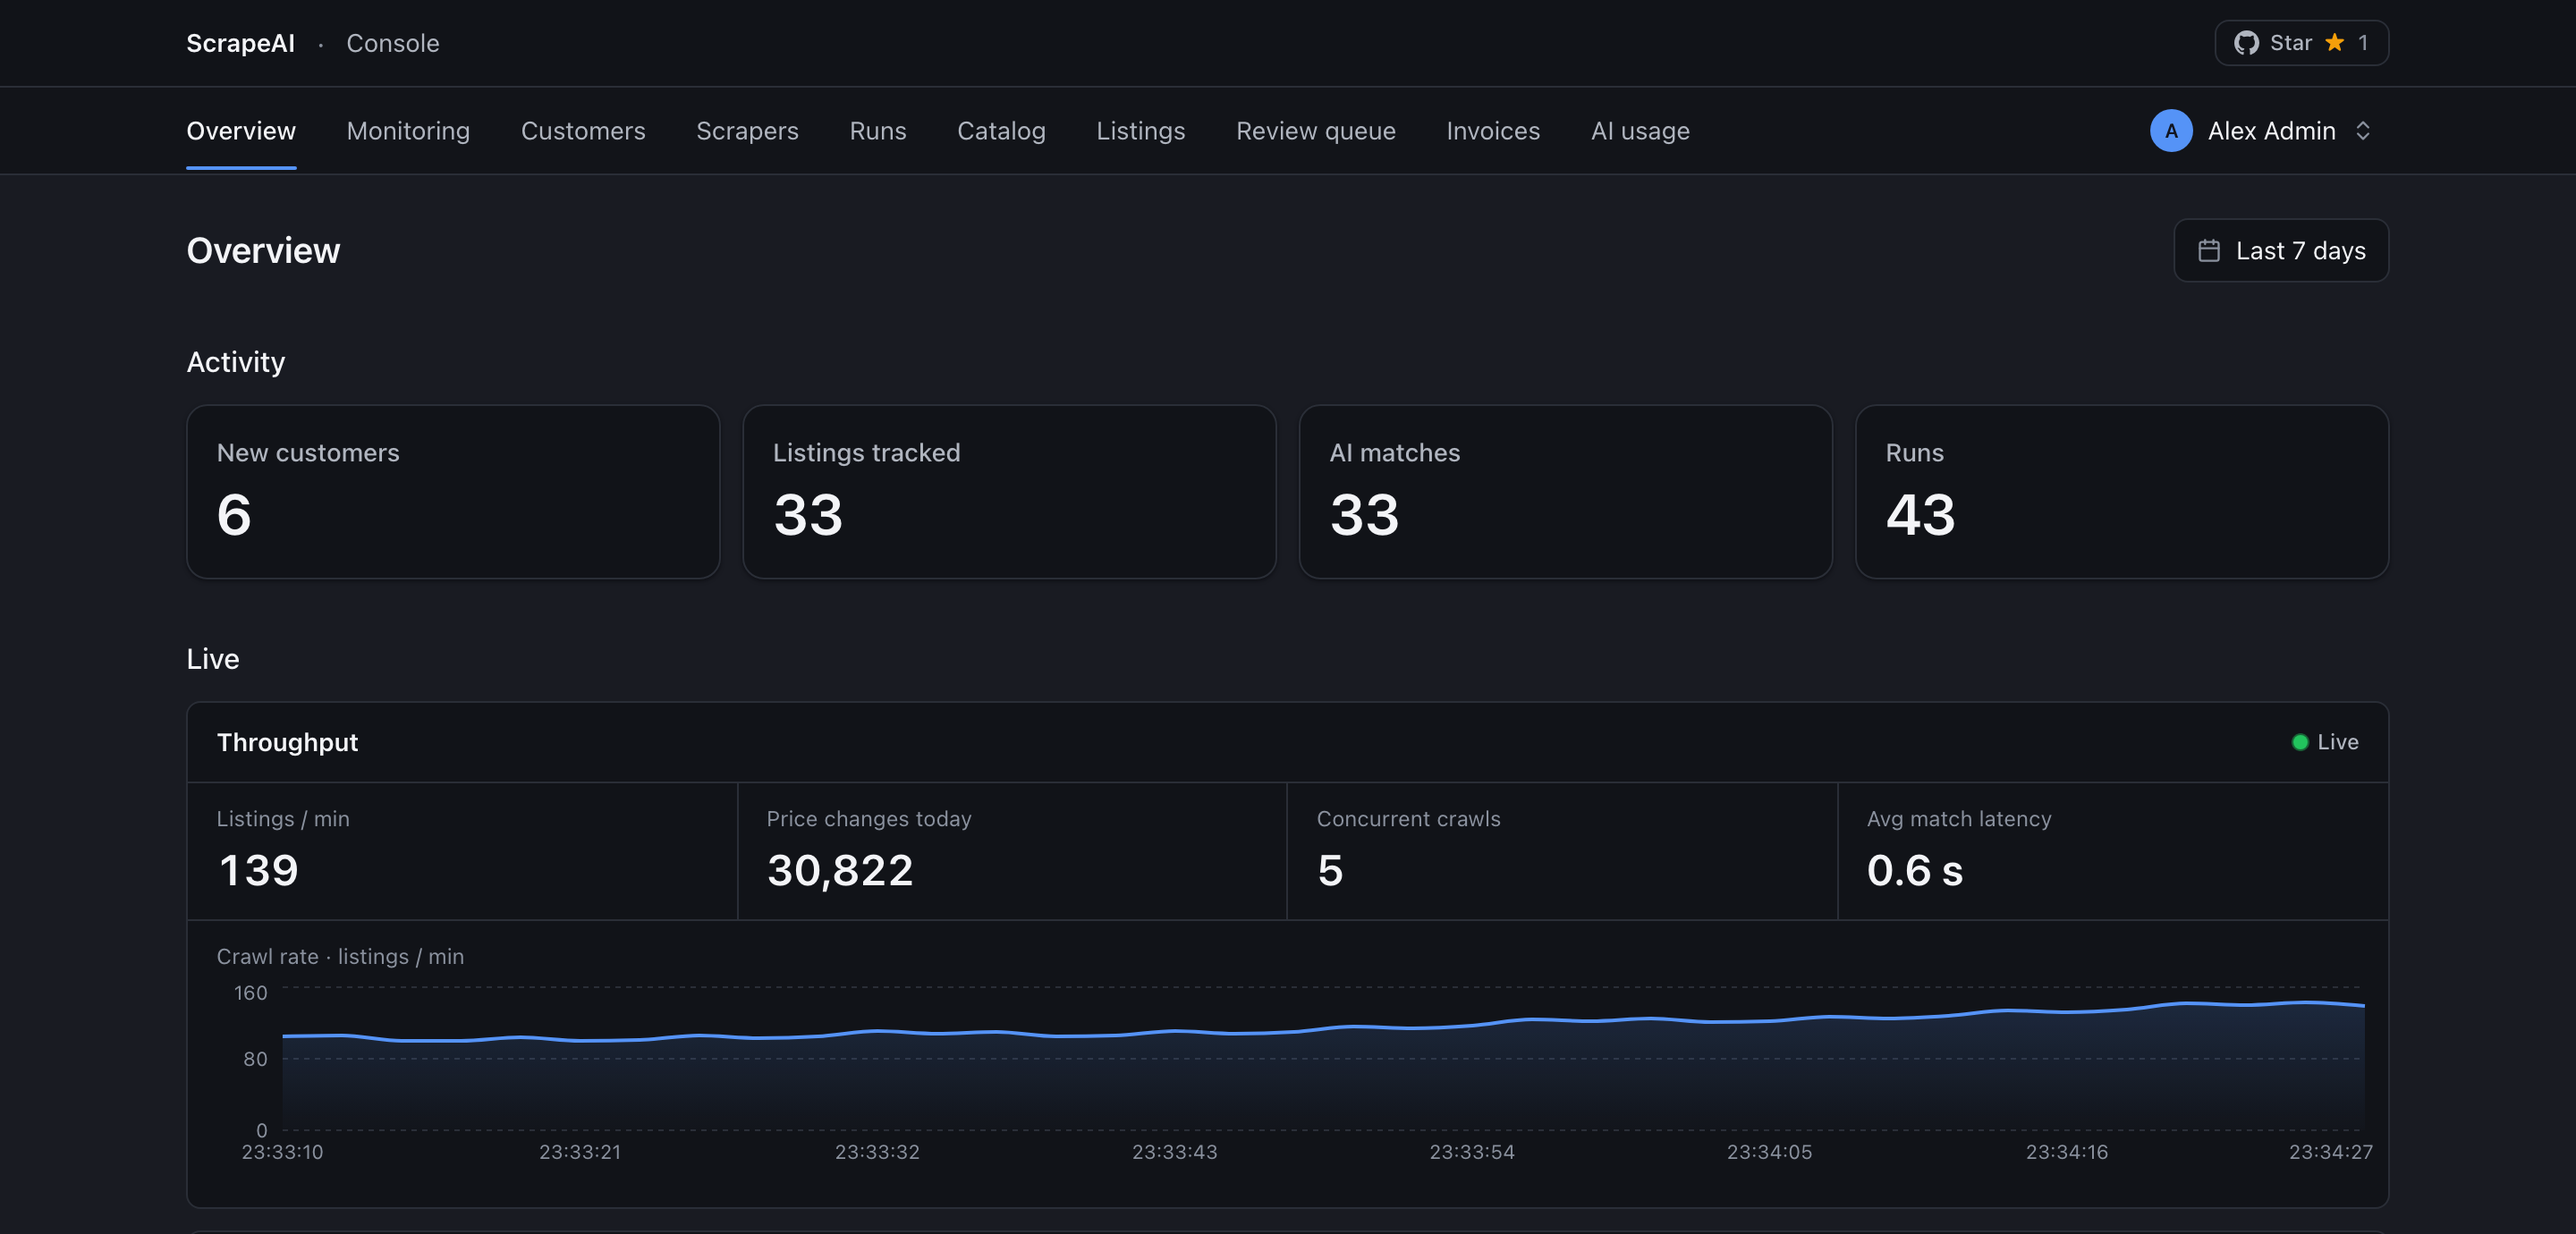
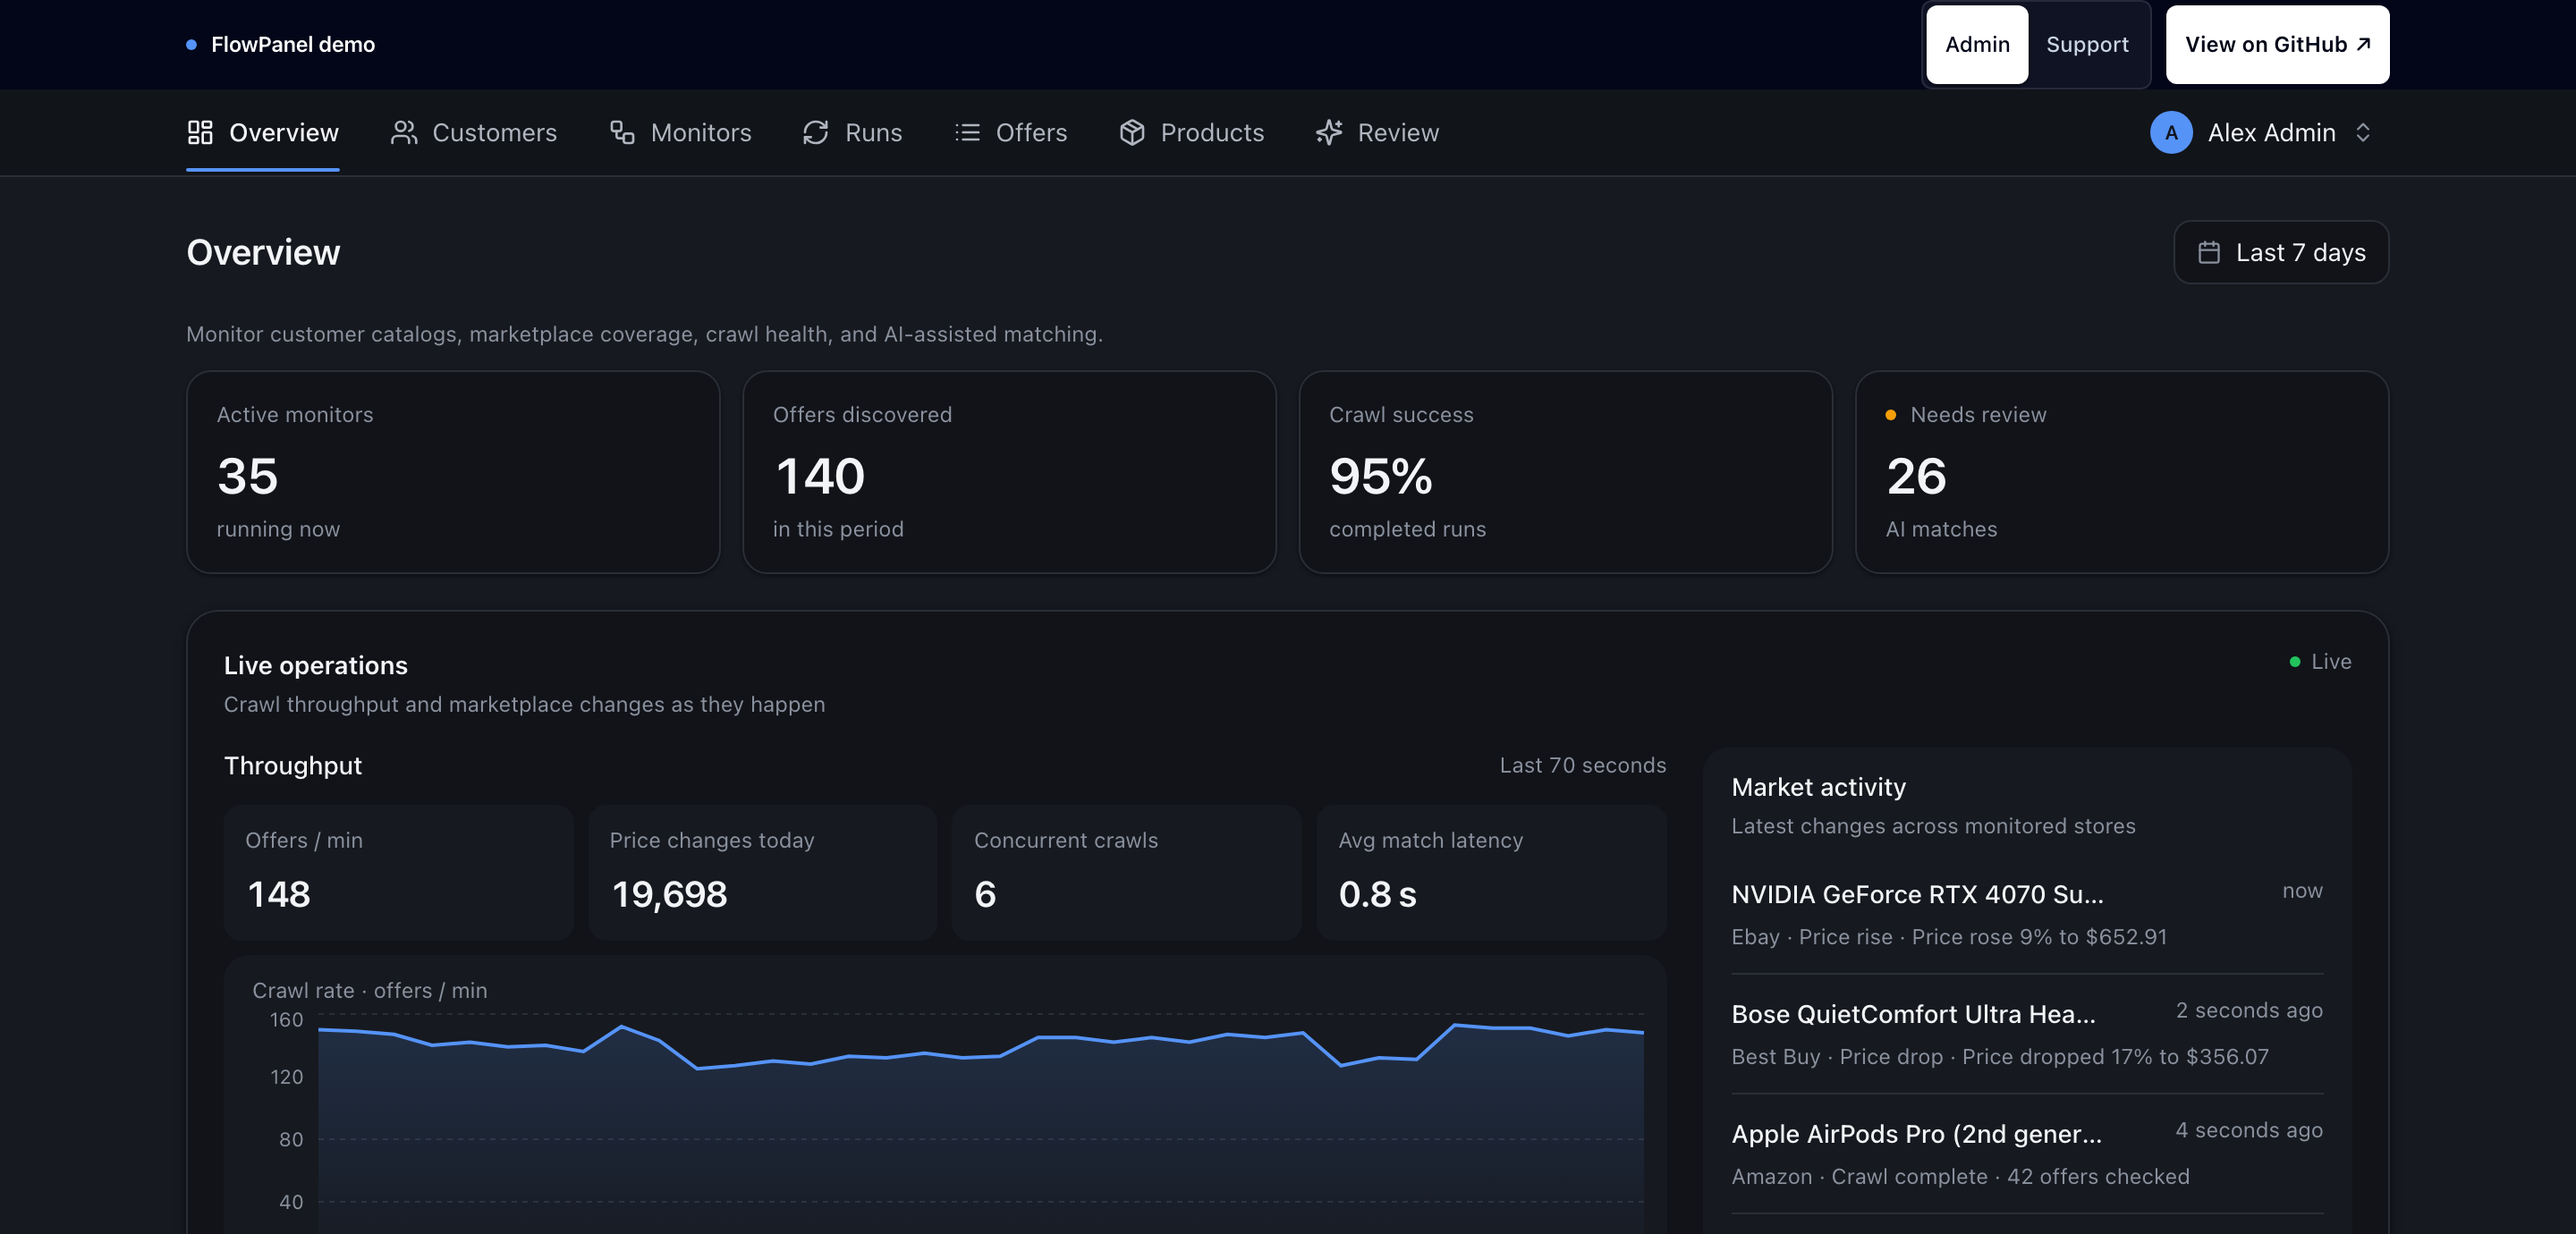
refactor(site): let the landing stop shouting, and show the demo it links to
The hero button carried a decorative dot that meant nothing, and four labels
were set in spaced capitals — Quick start, Works with, Production model, Get
started, plus the adapter-tab header. They are labels; they read as labels in
sentence case.

Arrows were drawn two ways: lucide icons in the hero and literal → glyphs in
the production-model links. One way now. The feature grid's nine icons sat in
tinted rounded squares while the production-model icons stood bare — bare
everywhere now, and its heading says what it means instead of trailing off
into "already in".

The hero screenshot still showed the console the demo had before this release
— different navigation, different metrics, a GitHub star button that is gone.
Recaptured both themes from the current examples/ai-scraper at the same
2880x1380.

diff --git a/apps/site/src/views/landing/ui/ProductionModel.tsx b/apps/site/src/views/landing/ui/ProductionModel.tsx
@@ -1,4 +1,4 @@
-import { AppWindow, Database, ShieldCheck, Waypoints } from "lucide-react";
+import { AppWindow, ArrowRight, Database, ShieldCheck, Waypoints } from "lucide-react";
 import Link from "next/link";
 
 const PROOFS = [
@@ -42,9 +42,7 @@ export function ProductionModel() {
       <div className="mx-auto max-w-[1120px] px-6">
         <div className="flex flex-col justify-between gap-5 md:flex-row md:items-end">
           <div>
-            <p className="font-mono text-xs uppercase tracking-[0.14em] text-[var(--color-accent)]">
-              Production model
-            </p>
+            <p className="font-mono text-xs text-[var(--color-accent)]">Production model</p>
             <h2
               id="production-model-title"
               className="mt-3 max-w-[22ch] text-3xl font-semibold tracking-[-0.02em] md:text-4xl"
@@ -54,9 +52,10 @@ export function ProductionModel() {
           </div>
           <Link
             href="/docs/guides/production-readiness"
-            className="inline-flex min-h-11 items-center font-mono text-sm font-medium text-[var(--color-accent)] transition-colors hover:text-[var(--color-accent-hover)]"
+            className="inline-flex min-h-11 items-center gap-2 font-mono text-sm font-medium text-[var(--color-accent)] transition-colors hover:text-[var(--color-accent-hover)]"
           >
-            Open the production checklist →
+            <span>Open the production checklist</span>
+            <ArrowRight aria-hidden className="h-4 w-4" />
           </Link>
         </div>
 
@@ -77,9 +76,10 @@ export function ProductionModel() {
               </p>
               <Link
                 href={href}
-                className="mt-4 inline-flex min-h-11 items-center font-mono text-xs text-[var(--color-fg-muted)] transition-colors hover:text-[var(--color-fg)]"
+                className="mt-4 inline-flex min-h-11 items-center gap-2 font-mono text-xs text-[var(--color-fg-muted)] transition-colors hover:text-[var(--color-fg)]"
               >
-                {linkLabel} →
+                <span>{linkLabel}</span>
+                <ArrowRight aria-hidden className="h-3.5 w-3.5" />
               </Link>
             </article>
           ))}

diff --git a/apps/site/src/views/landing/ui/FeatureGrid.tsx b/apps/site/src/views/landing/ui/FeatureGrid.tsx
@@ -45,8 +45,8 @@ const FEATURES: ReadonlyArray<Feature> = [
   },
   {
     icon: Command,
-    title: "⌘K command palette",
-    desc: "Jump to any registered resource — included, no wiring.",
+    title: "Command palette",
+    desc: "⌘K jumps to any registered resource. Included, no wiring.",
   },
   {
     icon: Building2,
@@ -76,7 +76,7 @@ export function FeatureGrid() {
           id="features-title"
           className="max-w-[24ch] text-balance text-4xl font-semibold tracking-[-0.02em] md:text-5xl"
         >
-          Everything an internal tool needs — already in.
+          Everything an internal tool needs.
         </h2>
 
         <ul className="mt-12 grid gap-px overflow-hidden rounded-xl border border-[var(--color-border)] bg-[var(--color-border)] sm:grid-cols-2 lg:grid-cols-3">
@@ -85,9 +85,7 @@ export function FeatureGrid() {
               key={f.title}
               className="bg-[var(--color-bg)] p-6 transition-colors duration-200 hover:bg-[var(--color-bg-subtle)] md:p-7"
             >
-              <span className="inline-flex h-10 w-10 items-center justify-center rounded-lg bg-[var(--color-accent-subtle)] text-[var(--color-accent)]">
-                <f.icon aria-hidden className="h-5 w-5" />
-              </span>
+              <f.icon aria-hidden className="h-5 w-5 text-[var(--color-accent)]" />
               <h3 className="mt-4 text-base font-semibold tracking-tight">{f.title}</h3>
               <p className="mt-2 text-sm leading-relaxed text-[var(--color-fg-muted)]">{f.desc}</p>
             </li>

diff --git a/apps/site/src/views/landing/ui/Hero.tsx b/apps/site/src/views/landing/ui/Hero.tsx
@@ -44,9 +44,6 @@ export function Hero() {
               : {})}
             className="inline-flex min-h-12 touch-manipulation items-center justify-center gap-2 rounded-lg bg-[var(--color-accent)] px-6 py-3 font-mono text-sm font-medium text-[var(--color-accent-fg)] transition-[background-color,box-shadow] duration-200 hover:bg-[var(--color-accent-hover)] focus-visible:outline-none focus-visible:ring-2 focus-visible:ring-[var(--color-accent)] focus-visible:ring-offset-2 focus-visible:ring-offset-[var(--color-bg)] active:bg-[var(--color-accent-hover)]"
           >
-            {demo ? (
-              <span aria-hidden className="h-2 w-2 shrink-0 rounded-full bg-current opacity-80" />
-            ) : null}
             <span>{demo ? "Open live demo" : "Explore the demo"}</span>
             {demo ? (
               <ArrowUpRight aria-hidden className="h-4 w-4" />
@@ -65,9 +62,7 @@ export function Hero() {
 
         <section aria-label="Quick start" className="mt-8 min-w-0 w-full max-w-[640px]">
           <div className="mb-2 flex flex-wrap items-center gap-x-3 gap-y-1 font-mono text-xs">
-            <span className="uppercase tracking-[0.14em] text-[var(--color-fg-subtle)]">
-              Quick start
-            </span>
+            <span className="text-[var(--color-fg-subtle)]">Quick start</span>
             <span className="text-[var(--color-fg-muted)]">
               Detects your ORM and scaffolds /admin
             </span>

diff --git a/apps/site/src/shared/ui/adapter-tabs/AdapterTabs.tsx b/apps/site/src/shared/ui/adapter-tabs/AdapterTabs.tsx
@@ -24,7 +24,7 @@ interface AdapterTabsProps {
 export function AdapterTabs({ children }: AdapterTabsProps) {
   return (
     <div className="not-prose my-6 rounded-xl border border-[var(--color-border)] bg-[var(--color-bg-elevated)]">
-      <header className="flex items-center justify-between border-b border-[var(--color-border)] px-4 py-2 font-mono text-xs uppercase tracking-[0.18em] text-[var(--color-fg-subtle)]">
+      <header className="flex items-center justify-between border-b border-[var(--color-border)] px-4 py-2 font-mono text-xs text-[var(--color-fg-subtle)]">
         <span>Adapter example</span>
         <span>Toggle in the sidebar</span>
       </header>

diff --git a/apps/site/src/views/landing/ui/ReadyToShip.tsx b/apps/site/src/views/landing/ui/ReadyToShip.tsx
@@ -10,9 +10,7 @@ export function ReadyToShip() {
       <div className="mx-auto max-w-[1120px] px-6">
         <div className="grid gap-10 md:grid-cols-[minmax(0,0.85fr)_minmax(360px,1fr)] md:items-end md:gap-20">
           <div>
-            <p className="font-mono text-xs uppercase tracking-[0.14em] text-[var(--color-fg-subtle)]">
-              Get started
-            </p>
+            <p className="font-mono text-xs text-[var(--color-fg-subtle)]">Get started</p>
             <h2
               id="ready-title"
               className="mt-3 text-balance text-3xl font-semibold tracking-[-0.02em] md:text-4xl"

diff --git a/apps/site/src/views/landing/ui/TrustBar.tsx b/apps/site/src/views/landing/ui/TrustBar.tsx
@@ -7,7 +7,7 @@ const STACK = ["Next.js 16", "React 19", "Drizzle", "Prisma", "TypeScript"] as c
 export function TrustBar() {
   return (
     <div className="mt-10 flex flex-wrap items-center gap-x-5 gap-y-2 font-mono text-xs">
-      <span className="uppercase tracking-[0.14em] text-[var(--color-fg-subtle)]">Works with</span>
+      <span className="text-[var(--color-fg-subtle)]">Works with</span>
       {STACK.map((item) => (
         <span key={item} className="text-[var(--color-fg-muted)]">
           {item}
